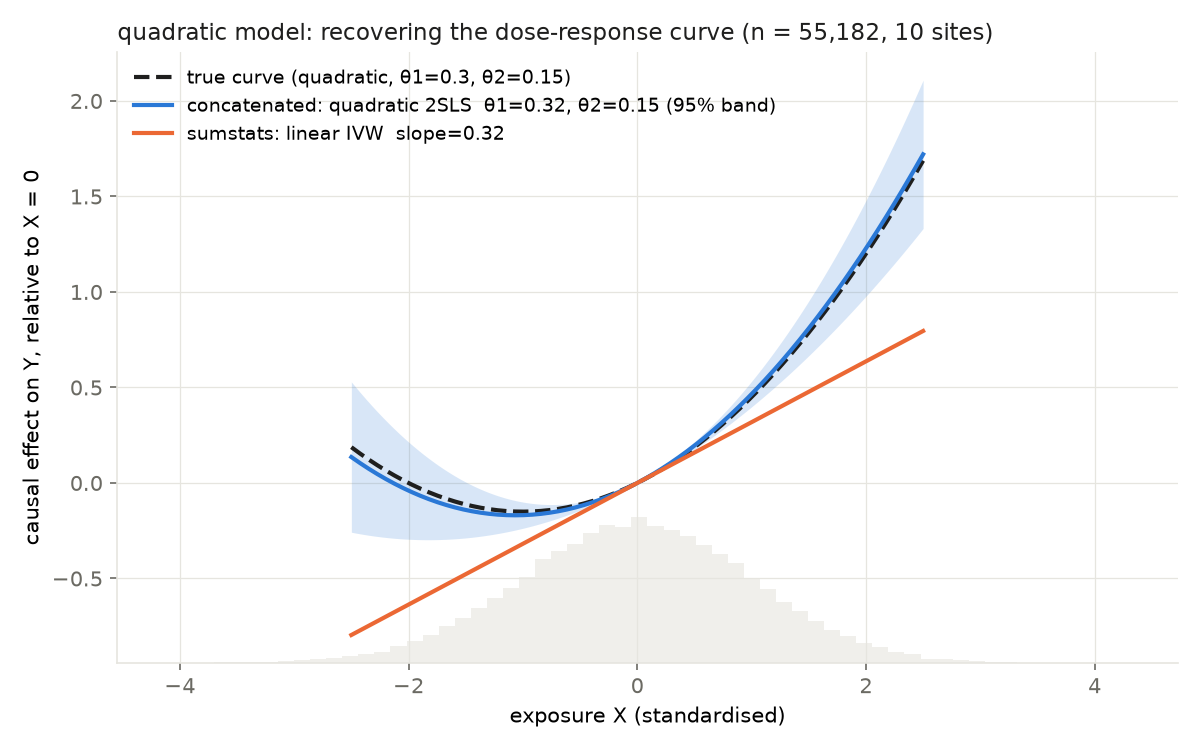
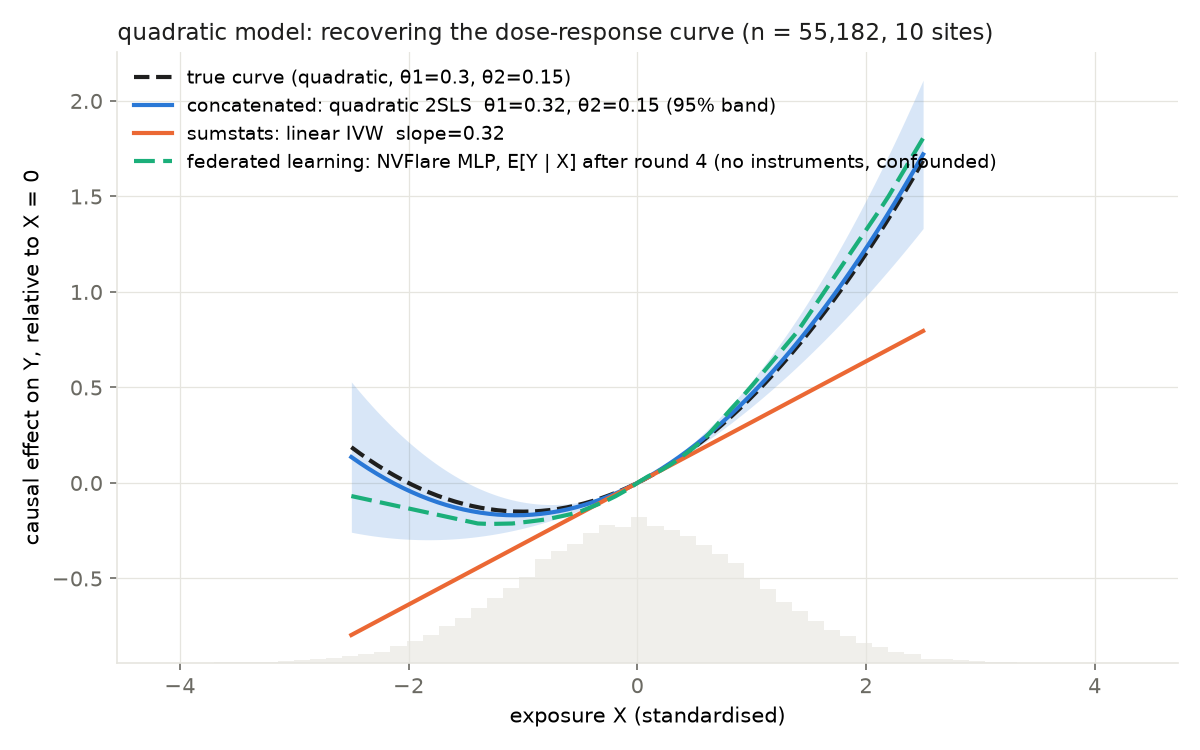
Overlay the federated NVFlare MLP curve on the non-linear MR plots
federated_nonlinear_mr.py reads federated_learning/results/<shape>/curves.csv
when present and draws the last-round E[Y | X] fit beside the concatenated
2SLS curve and the sumstats IVW line, so the confounded predictive fit can be
compared with the instrumented estimates.

Claude-Session: https://claude.ai/code/session_01QE6jMvjv23dVmM45Zcnayz

diff --git a/data/scripts/federated_nonlinear_mr.py b/data/scripts/federated_nonlinear_mr.py
@@ -7,6 +7,11 @@ instrument), with site intercepts. Recovers theta1 and theta2.
 Summary-statistic route: per-SNP linear GWAS effects carry only the average
 slope, so the best it can do is the IVW line from federated_summary_mr.py.
 
+Federated-learning route (optional, for contrast): the NVFlare FedAvg MLP
+from ../federated_learning fits E[Y | X] directly, with no instruments, so its
+curve is the confounded association rather than the causal effect. It is read
+from federated_learning/results/<shape>/curves.csv when that file exists.
+
 Writes results/nonlinear.<shape>.png (dose-response curves) and prints the
 coefficient estimates.
 """
@@ -27,7 +32,7 @@ sys.path.insert(0, str(Path(__file__).parent))
 from federated_summary_mr import _first_stage, gwas, ivw  # noqa: E402
 from simulate_basic import causal_curve  # noqa: E402
 
-POOLED_COLOR, SUMSTATS_COLOR, INK, MUTED, GRID = "#2a78d6", "#eb6834", "#1f1f1e", "#6b6a63", "#e6e5df"
+POOLED_COLOR, SUMSTATS_COLOR, FL_COLOR, INK, MUTED, GRID = "#2a78d6", "#eb6834", "#1baf7a", "#1f1f1e", "#6b6a63", "#e6e5df"
 
 
 def load_sites(folder: Path):
@@ -68,12 +73,28 @@ def sumstats_slope(sites):
     return float(np.sum(w * est) / np.sum(w)), float(np.sqrt(1 / np.sum(w)))
 
 
+def federated_curve(path: Path, x):
+    """Last-round global-model f(X) from the NVFlare run, centred at X = 0 and
+    interpolated onto x. Returns (curve, round) or None if the file is missing."""
+    if not path.exists():
+        return None
+    df = pl.read_csv(path)
+    last = df["round"].max()
+    c = df.filter(pl.col("round") == last).group_by("x").agg(pl.col("f").mean()).sort("x")
+    xs, fs = c["x"].to_numpy(), c["f"].to_numpy()
+    fs = fs - np.interp(0.0, xs, fs)
+    return np.interp(x, xs, fs), int(last)
+
+
 def main():
     p = argparse.ArgumentParser(description=__doc__.splitlines()[0])
     p.add_argument("--shape", choices=["quadratic", "threshold"], default="quadratic")
     p.add_argument("--sites", type=Path, default=None)
     p.add_argument("--out", type=Path, default=None)
+    p.add_argument("--federated", type=Path, default=None,
+                   help="curves.csv from the NVFlare run (default: ../federated_learning/results/<shape>/curves.csv)")
     a = p.parse_args()
+    a.federated = a.federated or Path(__file__).resolve().parents[2] / "federated_learning" / "results" / a.shape / "curves.csv"
     a.sites = a.sites or Path("simulated_data/federated") / a.shape
     a.out = a.out or Path("results") / f"nonlinear.{a.shape}.png"
     manifest = json.loads((a.sites / "manifest.json").read_text())
@@ -95,6 +116,7 @@ def main():
     fit = basis @ theta
     fit_se = np.sqrt(np.einsum("ij,jk,ik->i", basis, cov, basis))
     line = slope * x
+    fl = federated_curve(a.federated, x)
 
     fig, ax = plt.subplots(figsize=(8, 5), dpi=150)
     ax.fill_between(x, fit - 1.96 * fit_se, fit + 1.96 * fit_se, color=POOLED_COLOR, alpha=0.18, linewidth=0)
@@ -102,6 +124,12 @@ def main():
     ax.plot(x, fit, color=POOLED_COLOR, linewidth=2,
             label=f"concatenated: quadratic 2SLS  θ1={theta[0]:.2f}, θ2={theta[1]:.2f} (95% band)")
     ax.plot(x, line, color=SUMSTATS_COLOR, linewidth=2, label=f"sumstats: linear IVW  slope={slope:.2f}")
+    if fl is not None:
+        ax.plot(x, fl[0], color=FL_COLOR, linewidth=2, linestyle=(0, (5, 2)),
+                label=f"federated learning: NVFlare MLP, E[Y | X] after round {fl[1]} (no instruments, confounded)")
+        print(f"federated MLP curve:          from {a.federated}")
+    else:
+        print(f"no federated curve at {a.federated}; run federated_learning/job.py --dataset {a.shape} to add it")
     X_all = np.concatenate([s[1] for s in sites])
     ax2 = ax.twinx()
     ax2.hist(X_all, bins=60, color=GRID, alpha=0.6, zorder=0)

diff --git a/data/docs/federated-nonlinear-mr.md b/data/docs/federated-nonlinear-mr.md
@@ -49,6 +49,20 @@ overshoots below `X = -1.5`, but it says the effect saturates and the
 sumstats line cannot. A piecewise or stratified IV fit on the pooled data
 would locate the cutoff.
 
+## Federated learning for contrast
+
+The plots also carry a green dashed line: the NVFlare FedAvg MLP from
+`../federated_learning/` (`job.py --dataset quadratic|threshold`), which
+fits `E[Y | X]` directly across the ten sites with no instruments. It
+recovers the *shape* of the association well, quadratic curvature and the
+threshold kink alike, because federated averaging of a flexible model sees
+individual-level data at every site. But it is the confounded regression,
+not the causal curve: `U` pushes both `X` and `Y`, so the MLP sits above
+the truth for large `X` on the threshold set and below it for negative `X`
+on the quadratic set. Federation solves the data-access problem; only the
+instruments solve the confounding problem. The line is read from
+`federated_learning/results/<shape>/curves.csv` when present.
+
 ## What this shows
 
 Federation by summary statistics loses nothing for a linear effect and loses
